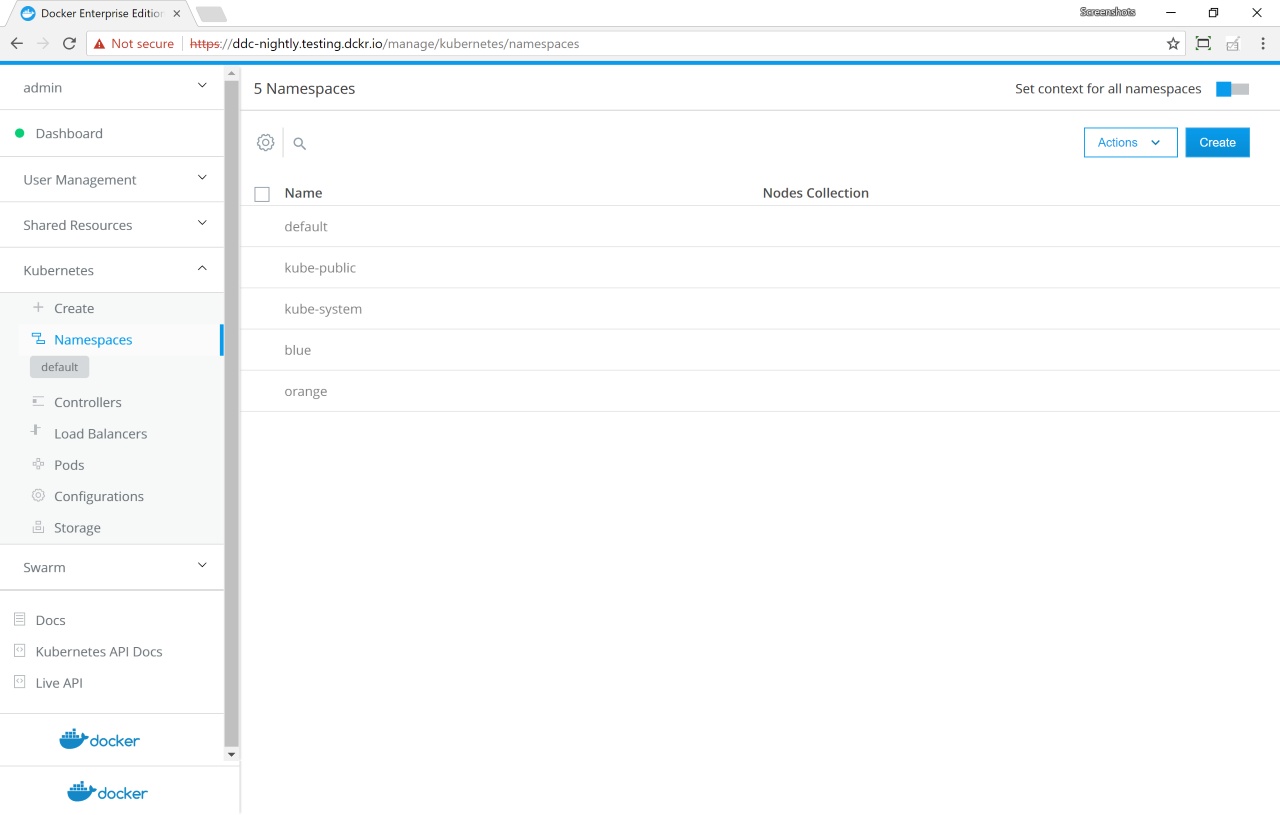
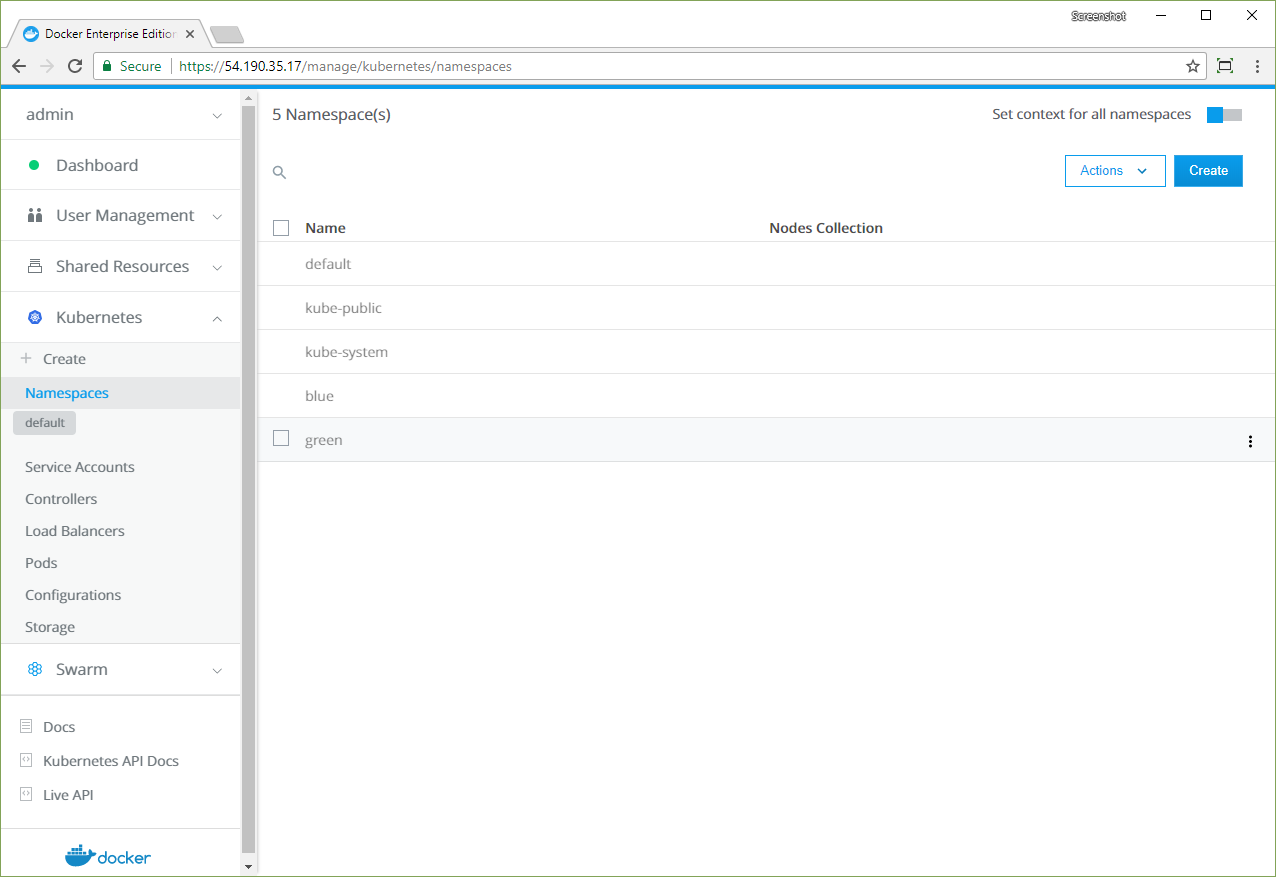
Update kube namespace screenshots

Changed region(s): [[0.0, 0.0, 1.0, 1.0], [0.5807, 0.2147, 0.703, 0.2761], [0.0306, 0.9509, 0.1223, 1.0]]

diff --git a/ee/ucp/admin/configure/view-namespace-resources.md b/ee/ucp/admin/configure/view-namespace-resources.md
@@ -18,19 +18,19 @@ to both of them.
 3.  Click **Create** to open the **Create Kubernetes Object** page.
 4.  In the **Object YAML** editor, paste the following YAML.
 
-```yaml
-apiVersion: v1
-kind: Namespace
-metadata:
- name: blue
----
- apiVersion: v1
- kind: Namespace
- metadata:
-  name: orange
-```
+    ```yaml
+    apiVersion: v1
+    kind: Namespace
+    metadata:
+     name: blue
+    ---
+     apiVersion: v1
+     kind: Namespace
+     metadata:
+      name: green
+    ```
 
-5.  Click **Create** to create the `blue` and `orange` namespaces.
+5.  Click **Create** to create the `blue` and `green` namespaces.
 
 ![](../../images/view-namespace-resources-1.png){: .with-border}
 
@@ -42,42 +42,42 @@ Create a `NodePort` service in the `blue` namespace.
 2.  In the **Namespace** dropdown, select **blue**.
 3.  In the **Object YAML** editor, paste the following YAML.
 
-```yaml
-apiVersion: v1
-kind: Service
-metadata:
-  name: app-service-blue
-  labels:
-    app: app-blue
-spec:
-  type: NodePort
-  ports:
-    - port: 80
-      nodePort: 30080
-  selector:
-    app: app-blue
-```
+    ```yaml
+    apiVersion: v1
+    kind: Service
+    metadata:
+      name: app-service-blue
+      labels:
+        app: app-blue
+    spec:
+      type: NodePort
+      ports:
+        - port: 80
+          nodePort: 32768
+      selector:
+        app: app-blue
+    ```
 
 4.  Click **Create** to deploy the service in the `blue` namespace.
 
-Repeat the previous steps with the following YAML, but this time, select
-`orange` from the **Namespace** dropdown.
+5.  Repeat the previous steps with the following YAML, but this time,
+    select `green` from the **Namespace** dropdown.
 
-```yaml
-apiVersion: v1
-kind: Service
-metadata:
-  name: app-service-orange
-  labels:
-    app: app-orange
-spec:
-  type: NodePort
-  ports:
-    - port: 80
-      nodePort: 30081
-  selector:
-    app: app-orange
-```
+    ```yaml
+    apiVersion: v1
+    kind: Service
+    metadata:
+      name: app-service-green
+      labels:
+        app: app-green
+    spec:
+      type: NodePort
+      ports:
+        - port: 80
+          nodePort: 32769
+      selector:
+        app: app-green
+    ```
 
 ## View services
 
@@ -86,7 +86,7 @@ Currently, the **Namespaces** view is set to the **default** namespace, so the
 
 1.  In the left pane, click **Namespaces** to open the list of namespaces.
 2.  In the upper-right corner, click the **Set context for all namespaces**
-    toggle. The indicator in the left pane changes to **All Namespaces**.
+    toggle and click **Confirm**. The indicator in the left pane changes to **All Namespaces**.
 3.  Click **Load Balancers** to view your services.
 
 ![](../../images/view-namespace-resources-2.png){: .with-border}
@@ -98,15 +98,19 @@ Kubernetes objects in every namespace. Now filter the view to show only
 objects in one namespace.  
 
 1.  In the left pane, click **Namespaces** to open the list of namespaces.
-2.  In the **orange** namespace, click the **More options** icon and in the
+2.  In the **green** namespace, click the **More options** icon and in the
     context menu, select **Set Context**.
 
-![](../../images/view-namespace-resources-3.png){: .with-border}
+    ![](../../images/view-namespace-resources-3.png){: .with-border}
 
-3.  Click **Confirm** to set the context to the `orange` namespace.
-    The indicator in the left pane changes to **orange**.
-4.  Click **Load Balancers** to view your `app-service-orange` service.
+3.  Click **Confirm** to set the context to the `green` namespace.
+    The indicator in the left pane changes to **green**.
+4.  Click **Load Balancers** to view your `app-service-green` service.
     The `app-service-blue` service doesn't appear.
+
+![](../../images/view-namespace-resources-4.png){: .with-border}
 
 To view the `app-service-blue` service, repeat the previous steps, but this
 time, select **Set Context** on the **blue** namespace.
+
+![](../../images/view-namespace-resources-5.png){: .with-border}
